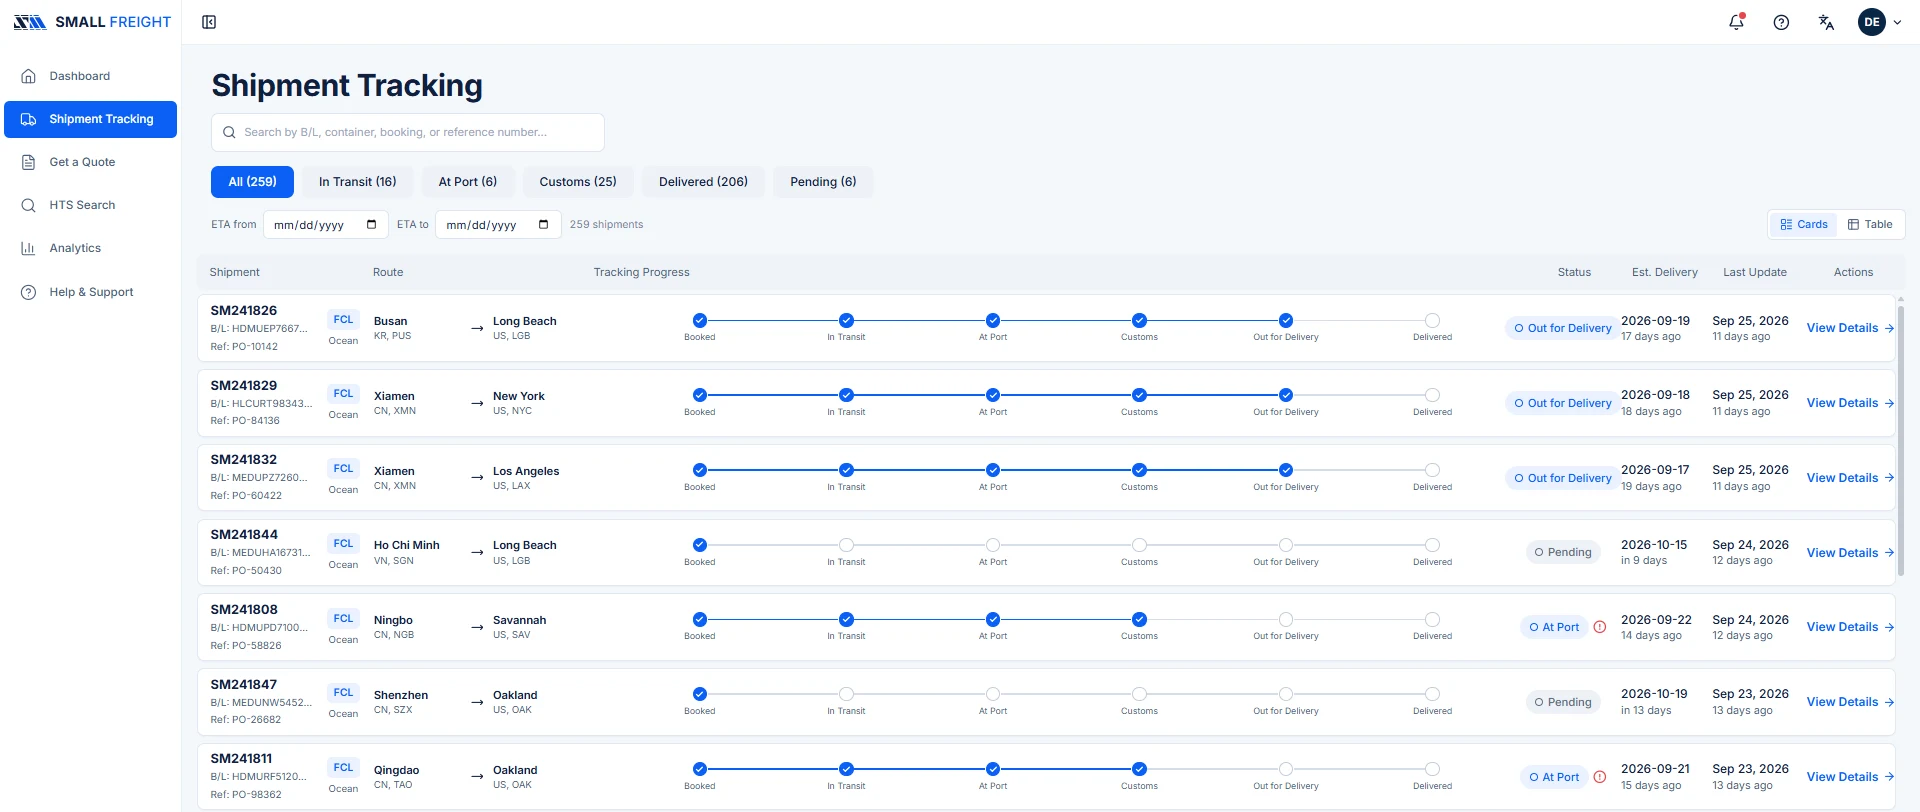
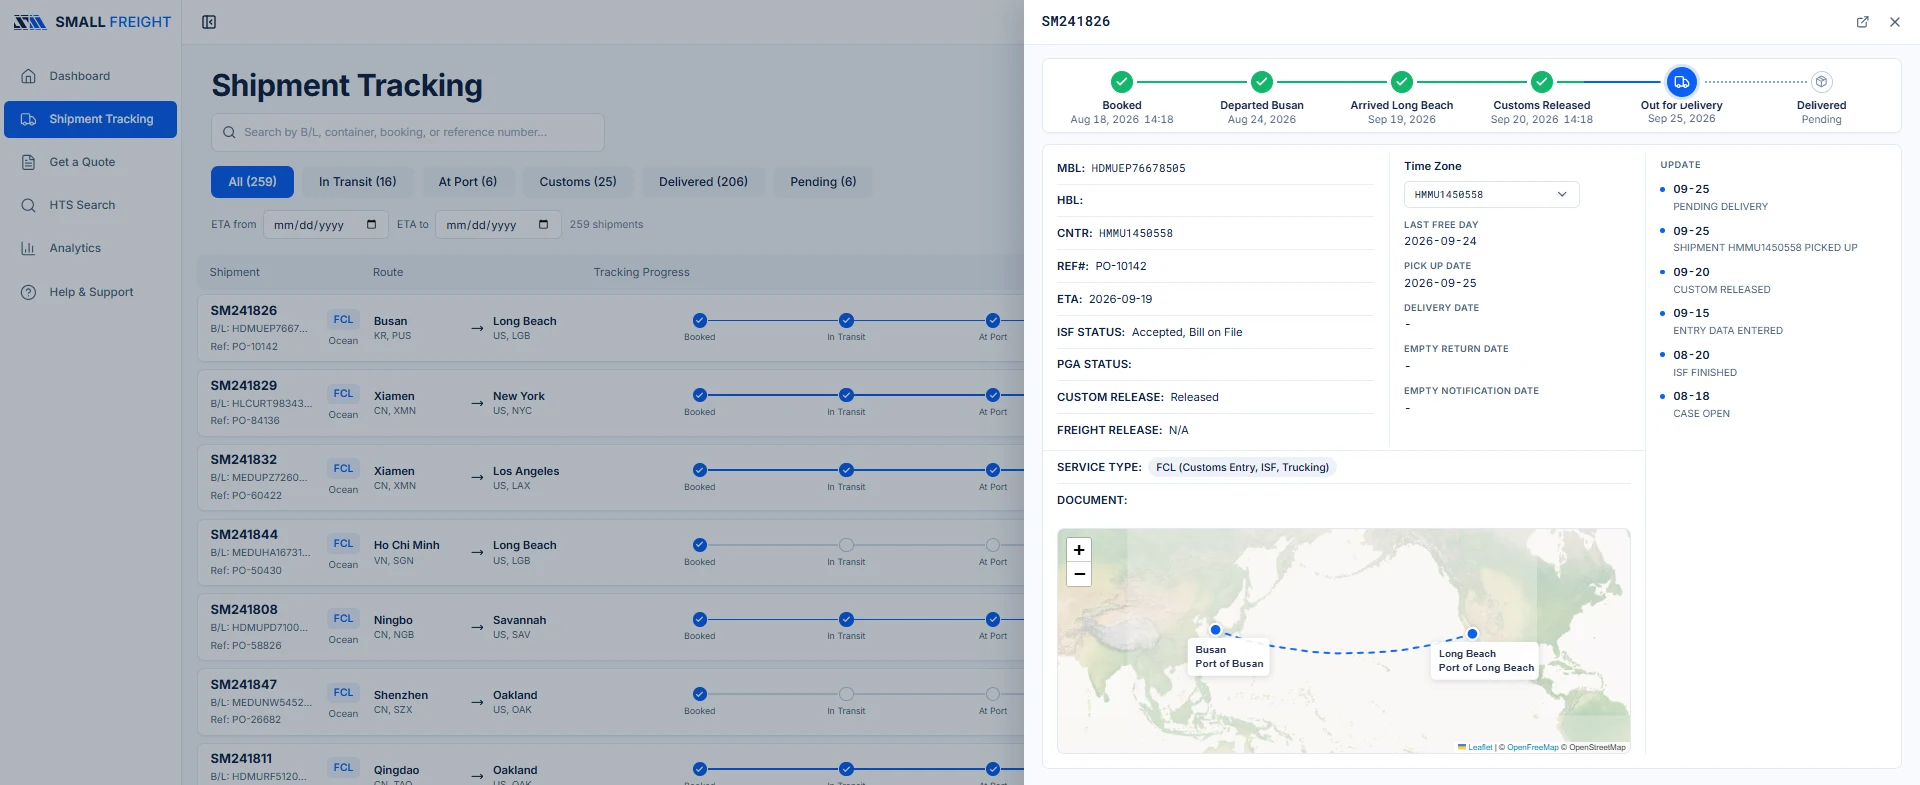
Small Freight page: tracking section shows the shipment detail panel

diff --git a/small-freight.html b/small-freight.html
@@ -183,7 +183,7 @@
         <a href="track.html" class="sp-btn sp-btn-primary sf-feature-btn reveal"><span data-zh="追踪货物">Track a Shipment</span> <svg width="16" height="16" viewBox="0 0 24 24" fill="none" stroke="currentColor" stroke-width="2.5" stroke-linecap="round" stroke-linejoin="round" aria-hidden="true"><line x1="5" y1="12" x2="19" y2="12"/><polyline points="12 5 19 12 12 19"/></svg></a>
       </div>
       <div class="sp-app sp-shot reveal">
-        <img src="image/sf-shot-shipments.webp" width="1920" height="812" alt="Shipment Tracking list with status filters and a milestone progress bar from Booked to Delivered for each shipment" loading="lazy" />
+        <img src="image/sf-shot-shipments.webp" width="1920" height="785" alt="Shipment SM241826 detail panel with milestones from Booked to Delivered, container and customs status, update history and a route map from Busan to Long Beach" loading="lazy" />
       </div>
     </div>
   </section>
